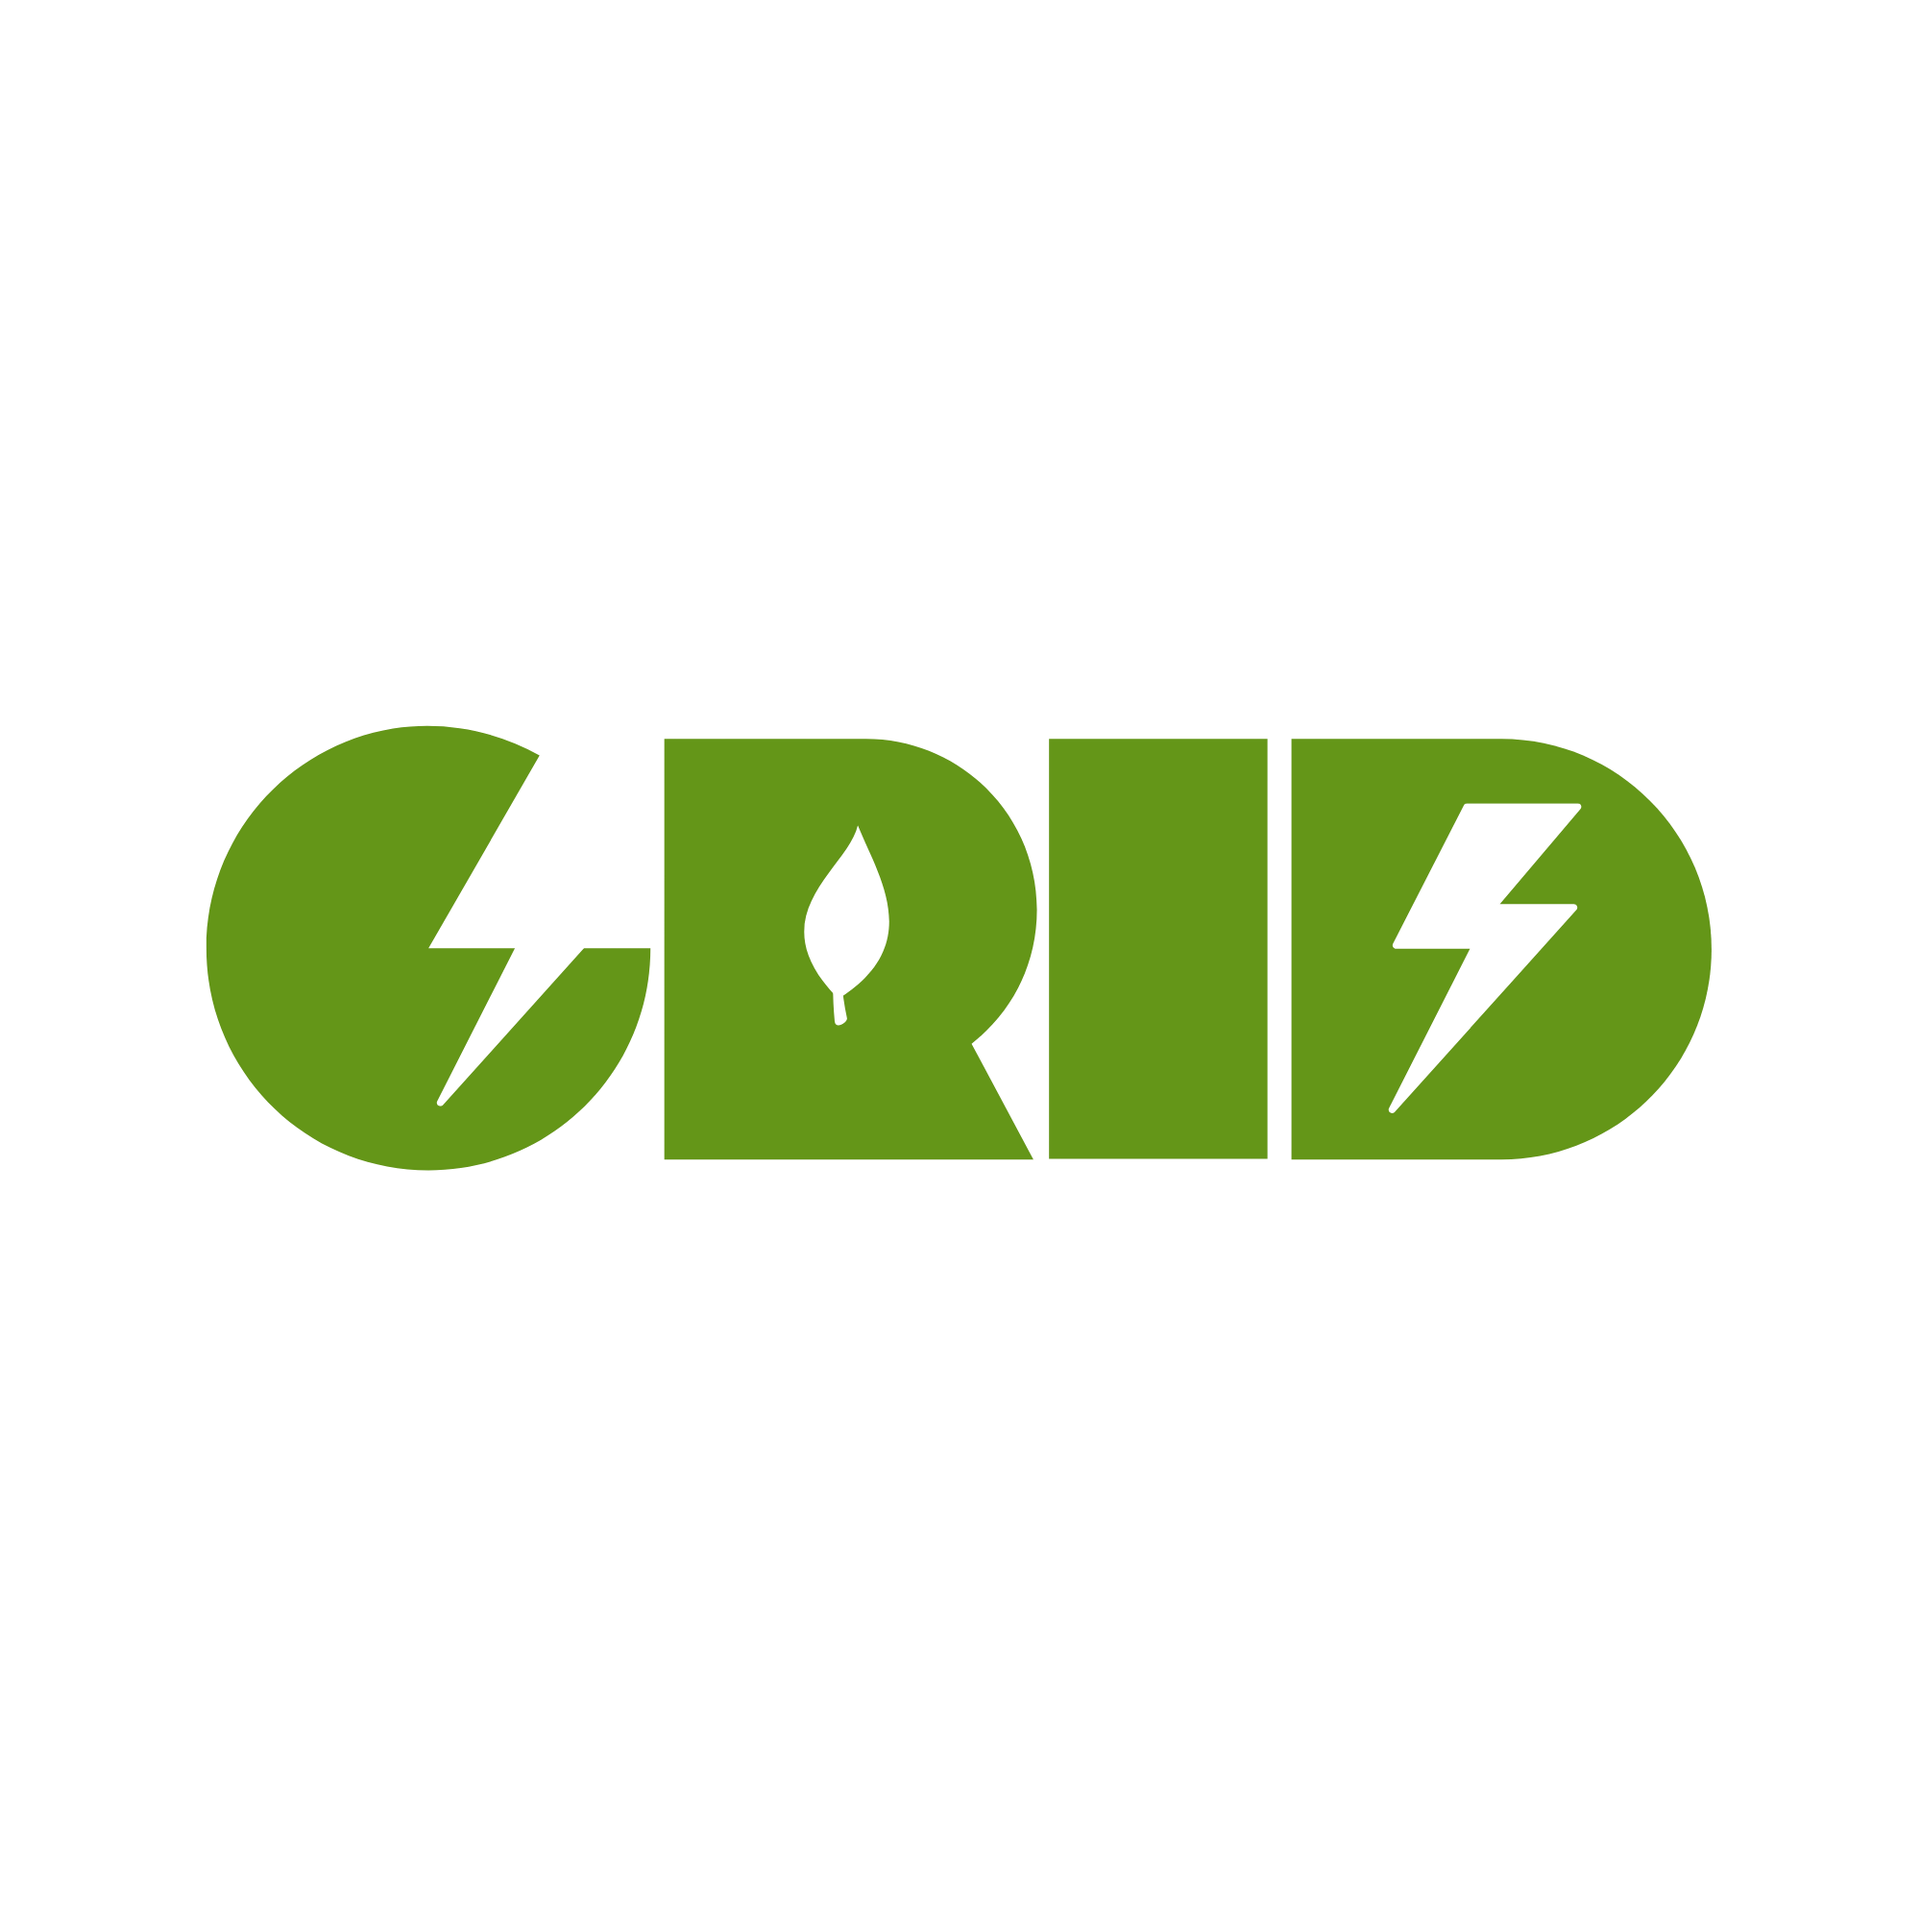
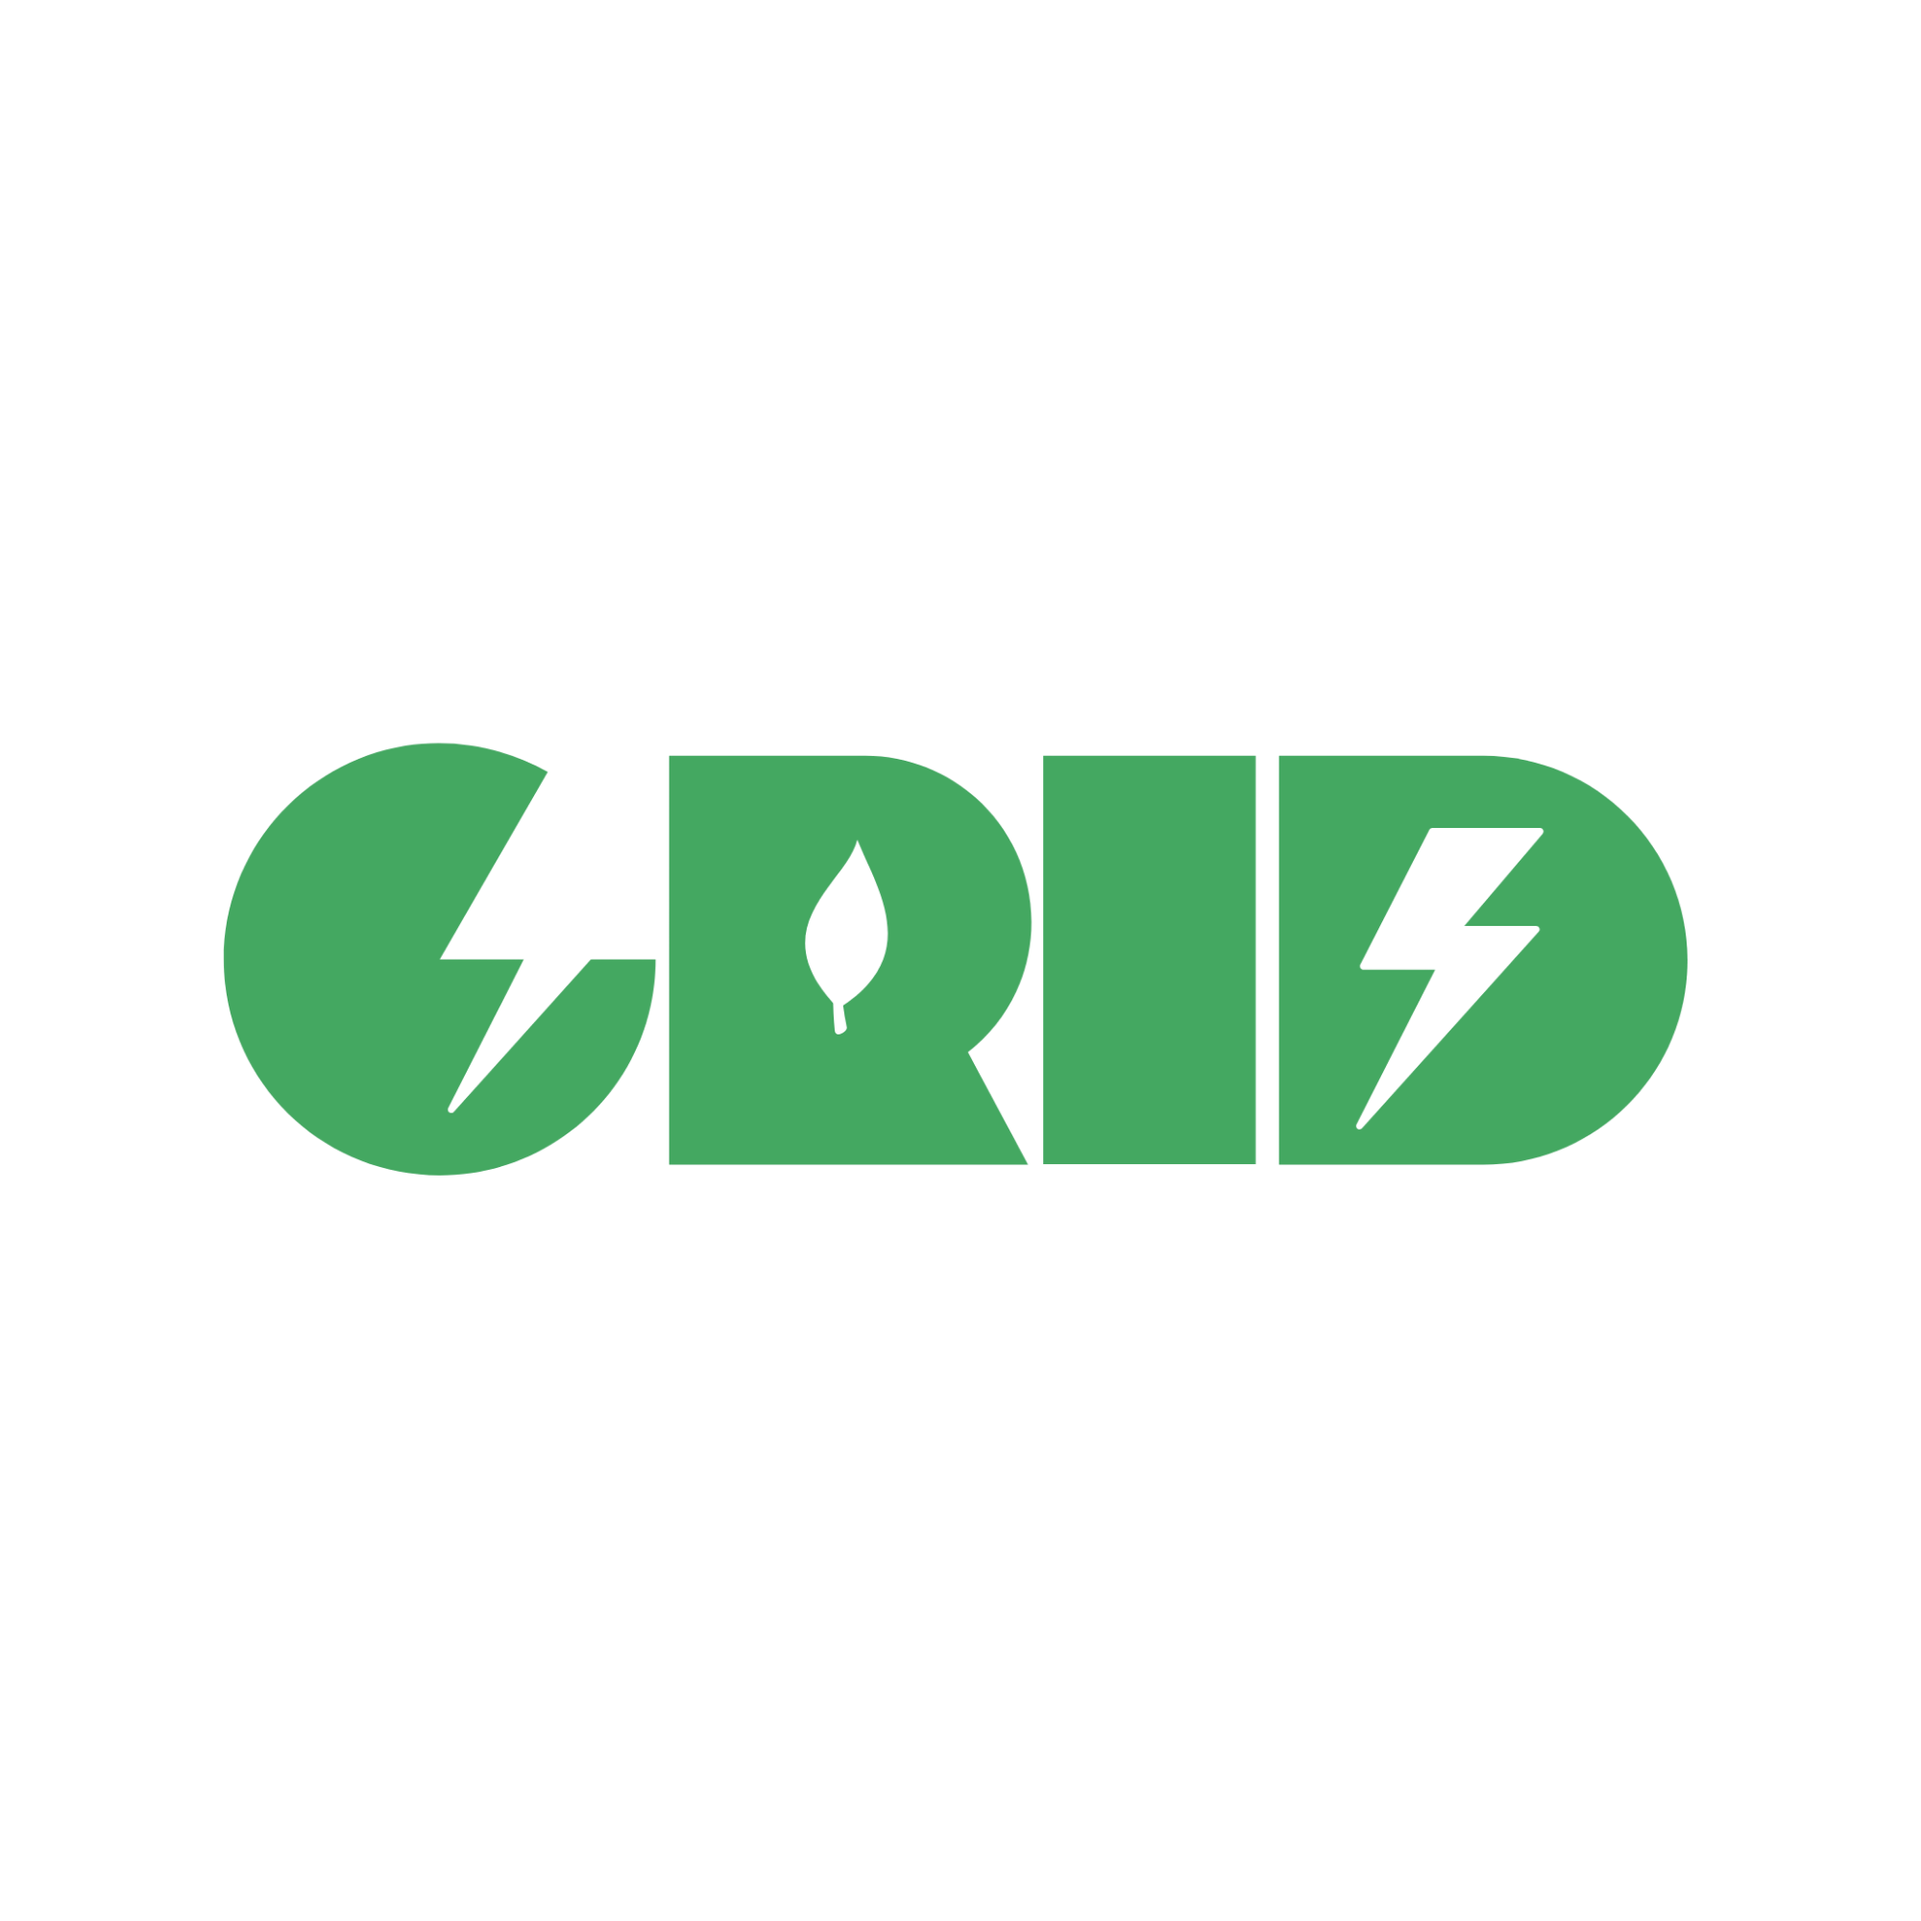
Brand green #44a861 everywhere
Swap in the #44a861 versions of the leaf and wordmark (leaf recoloured to
the exact hex) and rebuild all icon sizes. Use #44a861 for every green in
the site, the Chrome extension and the Übersicht widget: timed tags,
buttons, the clean phase, the batteries group, the live dot and accents.

Changed region(s): [[0.093, 0.372, 0.899, 0.62]]

diff --git a/src/components/LocationBar.tsx b/src/components/LocationBar.tsx
@@ -40,7 +40,7 @@ export function LocationBar({ place, onPlace }: { place: Place; onPlace: (p: Pla
           <button onClick={() => { setZip(place.zip); setEditing(true) }}
             className="inline-flex items-center gap-1.5 rounded-full bg-white/10 py-1.5 pr-3 pl-2.5 text-xs text-white/90 transition hover:bg-white/20"
             aria-label={`Change ZIP code, currently ${place.place} ${place.zip}`}>
-            <MapPin size={14} className="text-[#7fd67f]" aria-hidden />
+            <MapPin size={14} className="text-[#44a861]" aria-hidden />
             {place.place} · {place.zip}
             <Pencil size={11} className="text-white/50" aria-hidden />
           </button>
@@ -72,9 +72,9 @@ export function LocationBar({ place, onPlace }: { place: Place; onPlace: (p: Pla
             <input id="zip" inputMode="numeric" autoComplete="postal-code" maxLength={5} autoFocus
               value={zip} onChange={(e) => { setZip(e.target.value.replace(/\D/g, '')); setError(null) }}
               placeholder="94612"
-              className="w-28 rounded-xl bg-[#2c2c2e] px-3 py-2 text-base tabular-nums text-white outline-none ring-1 ring-white/10 placeholder:text-white/30 focus:ring-[#7fd67f]" />
+              className="w-28 rounded-xl bg-[#2c2c2e] px-3 py-2 text-base tabular-nums text-white outline-none ring-1 ring-white/10 placeholder:text-white/30 focus:ring-[#44a861]" />
             <button type="submit" disabled={busy}
-              className="rounded-xl bg-[#7fd67f] px-4 py-2 text-sm font-semibold text-[#1c1c1e] transition hover:brightness-110">
+              className="rounded-xl bg-[#44a861] px-4 py-2 text-sm font-semibold text-[#1c1c1e] transition hover:brightness-110">
               {busy ? 'Checking…' : 'Update'}
             </button>
             <button type="button" onClick={() => { setEditing(false); setError(null) }}

diff --git a/extension/content.js b/extension/content.js
@@ -185,7 +185,7 @@ const CSS = `
   .brand { display: flex; align-items: center; gap: 8px; font-size: 12px; color: rgba(255,255,255,.55); }
   .dot { width: 8px; height: 8px; border-radius: 4px; background: #aeaeb2; }
   .dot.dirty { background: #e5534b; } .dot.peak { background: #f2c14e; }
-  .dot.later { background: #4f8ff7; } .dot.clean { background: #7fd67f; }
+  .dot.later { background: #4f8ff7; } .dot.clean { background: #44a861; }
   h1 { margin: 10px 0 0; font-size: 20px; line-height: 1.25; font-weight: 650; letter-spacing: -0.01em; }
   p { margin: 10px 0 0; font-size: 14px; line-height: 1.5; color: rgba(255,255,255,.78); }
   .q { margin-top: 16px; font-weight: 600; color: #fff; }
@@ -195,9 +195,9 @@ const CSS = `
     background: #2c2c2e; color: rgba(255,255,255,.92); cursor: pointer; text-align: center;
   }
   button:hover { background: #3a3a3c; }
-  button:focus-visible { outline: 2px solid #7fd67f; outline-offset: 2px; }
-  button.primary { margin-top: 12px; background: #7fd67f; color: #1c1c1e; }
-  button.primary:hover { filter: brightness(1.08); background: #7fd67f; }
+  button:focus-visible { outline: 2px solid #44a861; outline-offset: 2px; }
+  button.primary { margin-top: 12px; background: #44a861; color: #1c1c1e; }
+  button.primary:hover { filter: brightness(1.08); background: #44a861; }
   button.ghost { background: transparent; color: rgba(255,255,255,.7); font-weight: 500; }
   button.ghost:hover { background: rgba(255,255,255,.08); }
   button.link {

diff --git a/extension/popup.css b/extension/popup.css
@@ -17,9 +17,9 @@ h2 { margin: 0 0 8px; font-size: 11px; font-weight: 600; letter-spacing: .06em; 
 .row { display: flex; align-items: center; justify-content: space-between; gap: 10px; }
 .row + .row { margin-top: 10px; }
 .row span, .row label { flex: 1; color: rgba(255,255,255,.82); }
-input[type=checkbox] { width: 16px; height: 16px; accent-color: #7fd67f; }
+input[type=checkbox] { width: 16px; height: 16px; accent-color: #44a861; }
 #zip { width: 70px; padding: 6px 8px; border: 0; border-radius: 10px; background: #2c2c2e; color: #fff; font: inherit; }
-#zip:focus { outline: 2px solid #7fd67f; }
+#zip:focus { outline: 2px solid #44a861; }
 button.small { padding: 6px 10px; border: 0; border-radius: 10px; background: #2c2c2e; color: #fff; font: inherit; font-weight: 600; cursor: pointer; }
 button.small:hover { background: #3a3a3c; }
 .error { margin: 6px 0 0; min-height: 0; font-size: 12px; color: #ff8a80; }
@@ -29,7 +29,7 @@ button.small:hover { background: #3a3a3c; }
 .stats strong { font-size: 20px; }
 .stats span { font-size: 11px; color: rgba(255,255,255,.5); }
 .foot { margin: 12px 0 0; text-align: center; }
-a { color: #7fd67f; text-decoration: none; }
+a { color: #44a861; text-decoration: none; }
 a:hover { text-decoration: underline; }
 select { max-width: 150px; padding: 5px 6px; border: 0; border-radius: 10px; background: #2c2c2e; color: #fff; font: inherit; }
 .small { font-size: 11px; }

diff --git a/src/App.tsx b/src/App.tsx
@@ -122,7 +122,7 @@ export default function App() {
             ) : delayed ? (
               <><span className="mr-1 inline-block h-1.5 w-1.5 rounded-full bg-[#c98a1b] align-middle" />Delayed · as of {fmtDayTime(observedAt)}</>
             ) : (
-              <><span className="mr-1 inline-block h-1.5 w-1.5 rounded-full bg-[#3f9b4a] align-middle" />Live · {fmtTime(observedAt)}</>
+              <><span className="mr-1 inline-block h-1.5 w-1.5 rounded-full bg-[#44a861] align-middle" />Live · {fmtTime(observedAt)}</>
             )}
           </p>
         </header>
@@ -177,7 +177,7 @@ export default function App() {
             </label>
             <input id="preview" type="range" min={0} max={23} value={offsetH}
               onChange={(e) => setOffsetH(Number(e.target.value))}
-              className="mt-3 w-full accent-[#7fd67f]" />
+              className="mt-3 w-full accent-[#44a861]" />
             <p className="mt-1 text-xs text-white/55">Demo only. Drag to see how the widgets change through the day.</p>
           </section>
         )}

diff --git a/src/sources.ts b/src/sources.ts
@@ -13,7 +13,7 @@ export const GROUPS: Record<Group, { label: string; color: string; icon: LucideI
   solar: { label: 'Solar', color: '#f2c14e', icon: Sun, members: ['solar'] },
   water: { label: 'Wind & water', color: '#4f8ff7', icon: Wind, members: ['wind', 'hydro', 'geothermal'] },
   nuclear: { label: 'Nuclear & other', color: '#a78bfa', icon: Atom, members: ['nuclear', 'other'] },
-  batteries: { label: 'Batteries', color: '#6cc070', icon: BatteryCharging, members: ['batteries'] },
+  batteries: { label: 'Batteries', color: '#44a861', icon: BatteryCharging, members: ['batteries'] },
   fossil: { label: 'Gas & imports', color: '#e5534b', icon: Flame, members: ['gas', 'imports'] },
 }
 

diff --git a/widgets/uebersicht/grid-companion.jsx b/widgets/uebersicht/grid-companion.jsx
@@ -31,13 +31,13 @@ export const className = `
 
 // Same colours as the website.
 const PHASE = {
-  clean: { color: '#6cc070', mark: '●' },
+  clean: { color: '#44a861', mark: '●' },
   'cleaner-later': { color: '#4f8ff7', mark: '◷' },
   mixed: { color: '#f2c14e', mark: '◌' },
   'higher-carbon': { color: '#e5534b', mark: '▲' },
   unavailable: { color: '#aeaeb2', mark: '?' },
 }
-const GREEN = '#7fd67f'
+const GREEN = '#44a861'
 const dim = (a) => `rgba(255,255,255,${a})`
 
 const time = (iso) => new Date(iso).toLocaleTimeString([], { hour: 'numeric', minute: '2-digit' })

diff --git a/src/components/ActionsWidget.tsx b/src/components/ActionsWidget.tsx
@@ -5,7 +5,7 @@ import { effortOf, goalOf, mood, pickProject, pickRow, ROWS } from '../logic/act
 
 // Same visual system as the usage widget: dark card, sans type, rounded icon tiles.
 // Tags on grid-timed actions are green: "this is the best time to do it".
-const TIMED_GREEN = '#7fd67f'
+const TIMED_GREEN = '#44a861'
 
 const EFFORT: Record<Effort, string> = { seconds: 'Takes seconds', minutes: 'A few minutes', project: 'A project' }
 const GOAL: Record<Goal, { label: string; color: string }> = {

diff --git a/extension/popup.js b/extension/popup.js
@@ -2,7 +2,7 @@
 const $ = (id) => document.getElementById(id)
 const esc = (t) => String(t).replace(/[&<>"']/g, (c) => ({ '&': '&amp;', '<': '&lt;', '>': '&gt;', '"': '&quot;', "'": '&#39;' })[c])
 const PHASE_COLOR = {
-  clean: '#6cc070', 'cleaner-later': '#4f8ff7', mixed: '#f2c14e', 'higher-carbon': '#e5534b', unavailable: '#aeaeb2',
+  clean: '#44a861', 'cleaner-later': '#4f8ff7', mixed: '#f2c14e', 'higher-carbon': '#e5534b', unavailable: '#aeaeb2',
 }
 
 async function renderStatus() {

diff --git a/src/components/PhaseIcon.tsx b/src/components/PhaseIcon.tsx
@@ -5,7 +5,7 @@ import type { PhaseId } from '../types'
 
 // Red is shared with "Gas & imports" in the chart on purpose: both mean fossil.
 export const PHASE_STYLE: Record<PhaseId, { icon: (p: LucideProps) => React.ReactNode; color: string }> = {
-  clean: { icon: Leaf, color: '#6cc070' },
+  clean: { icon: Leaf, color: '#44a861' },
   'cleaner-later': { icon: Clock, color: '#4f8ff7' },
   mixed: { icon: Spiral, color: '#f2c14e' },
   'higher-carbon': { icon: Flame, color: '#e5534b' },

diff --git a/src/components/WeatherWidget.tsx b/src/components/WeatherWidget.tsx
@@ -41,7 +41,7 @@ export function WeatherWidget({ place, weather }: { place: Place; weather: Weath
           </div>
         </div>
         <p className="shrink-0 text-right text-xs text-white/55">
-          <MapPin size={12} className="mr-1 inline align-[-1px] text-[#7fd67f]" aria-hidden />
+          <MapPin size={12} className="mr-1 inline align-[-1px] text-[#44a861]" aria-hidden />
           {place.place}
         </p>
       </div>

diff --git a/src/components/DayCard.tsx b/src/components/DayCard.tsx
@@ -8,7 +8,7 @@ import type { ForecastPoint, Phase } from '../types'
 const W = 600
 const H = 150
 const PAD = { l: 8, r: 8, t: 16, b: 8 }
-const GREEN = '#7fd67f'
+const GREEN = '#44a861'
 
 const REASON_ICON: Record<Reason['kind'], { icon: typeof Sun; color: string }> = {
   sun: { icon: Sun, color: '#f2c14e' },

diff --git a/src/index.css b/src/index.css
@@ -6,7 +6,7 @@
   --color-charcoal: #2e2e2e;
   --color-muted: #6b6760;
   --color-line: #e3dccd;
-  --color-sage: #8fa67a;
+  --color-sage: #44a861;
   --color-sage-soft: #e3ead9;
   --color-dusty: #7c95b0;
   --color-dusty-soft: #e2e9f1;
